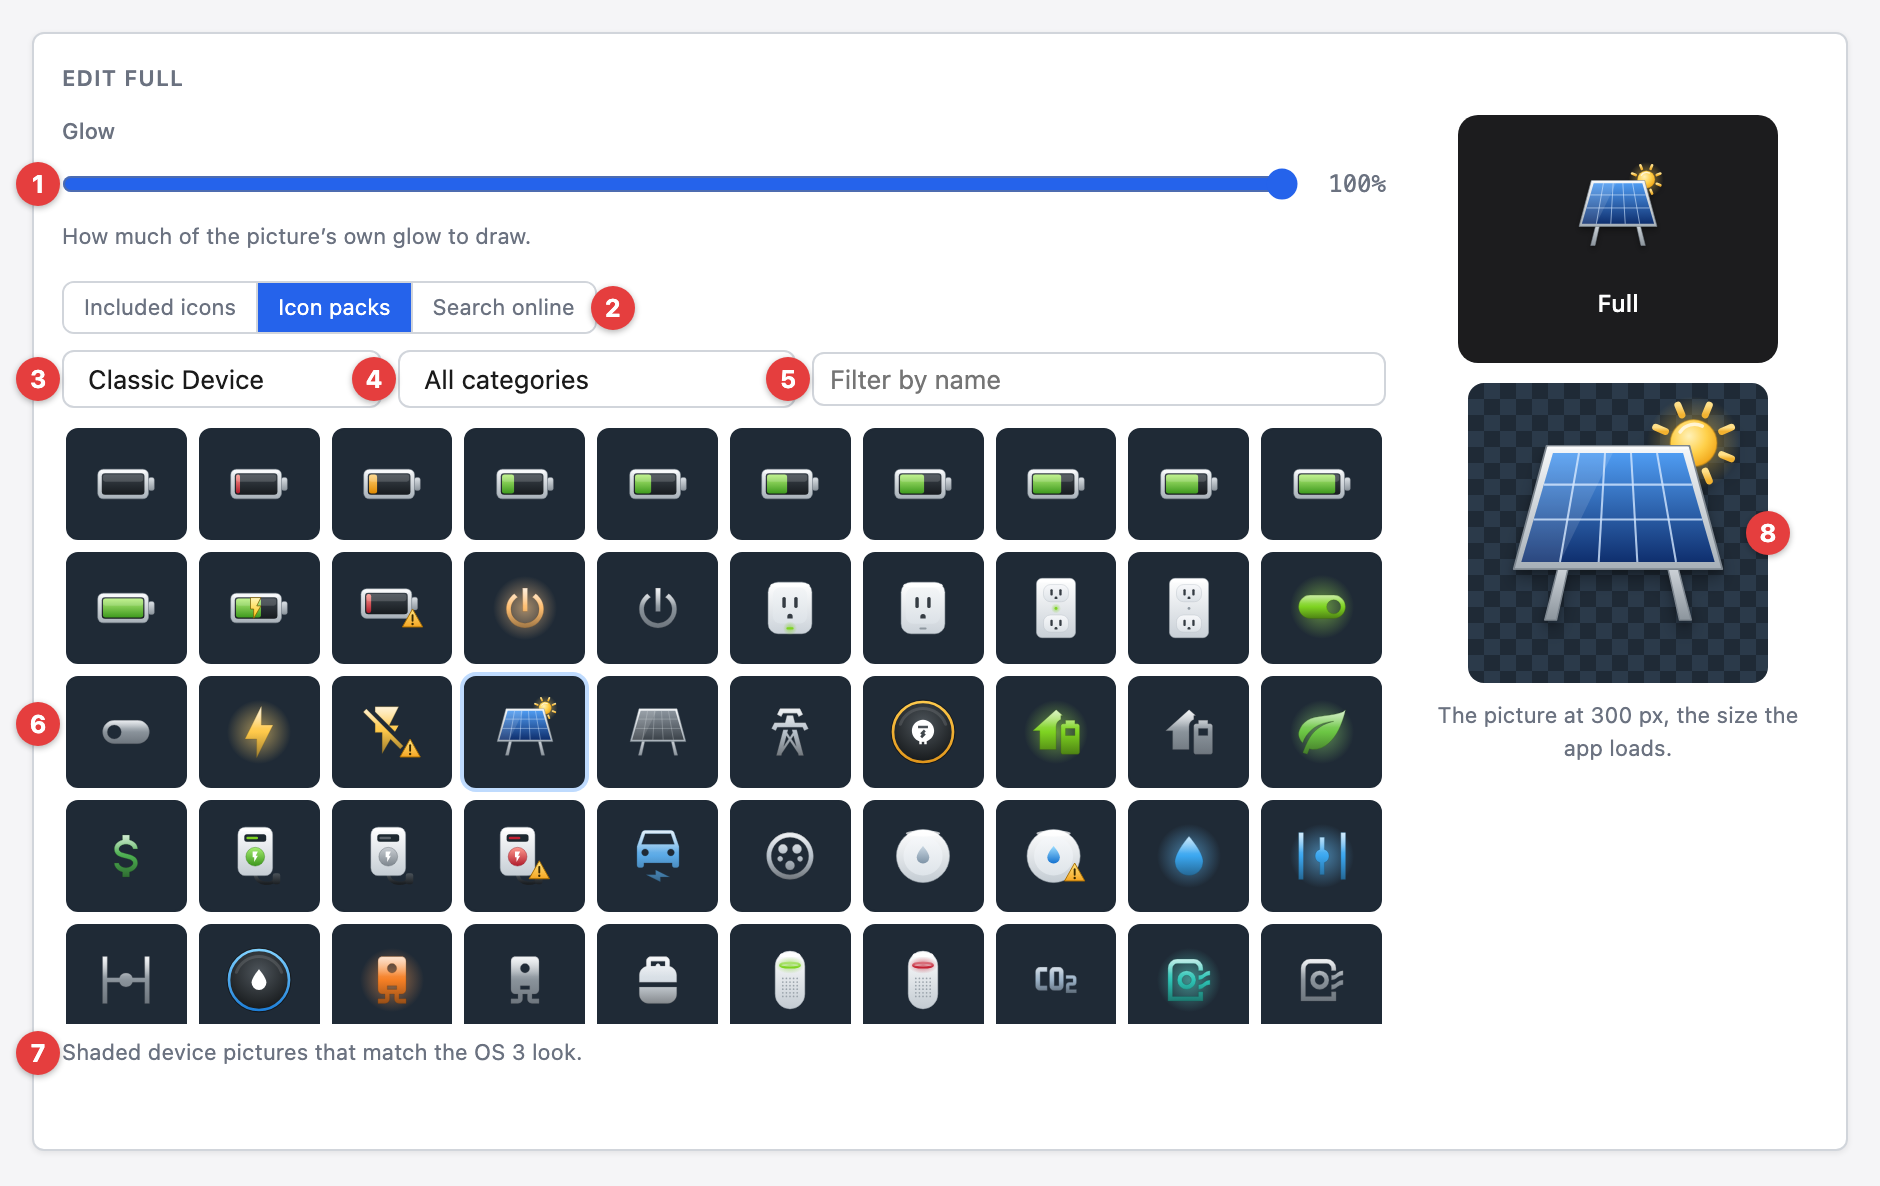
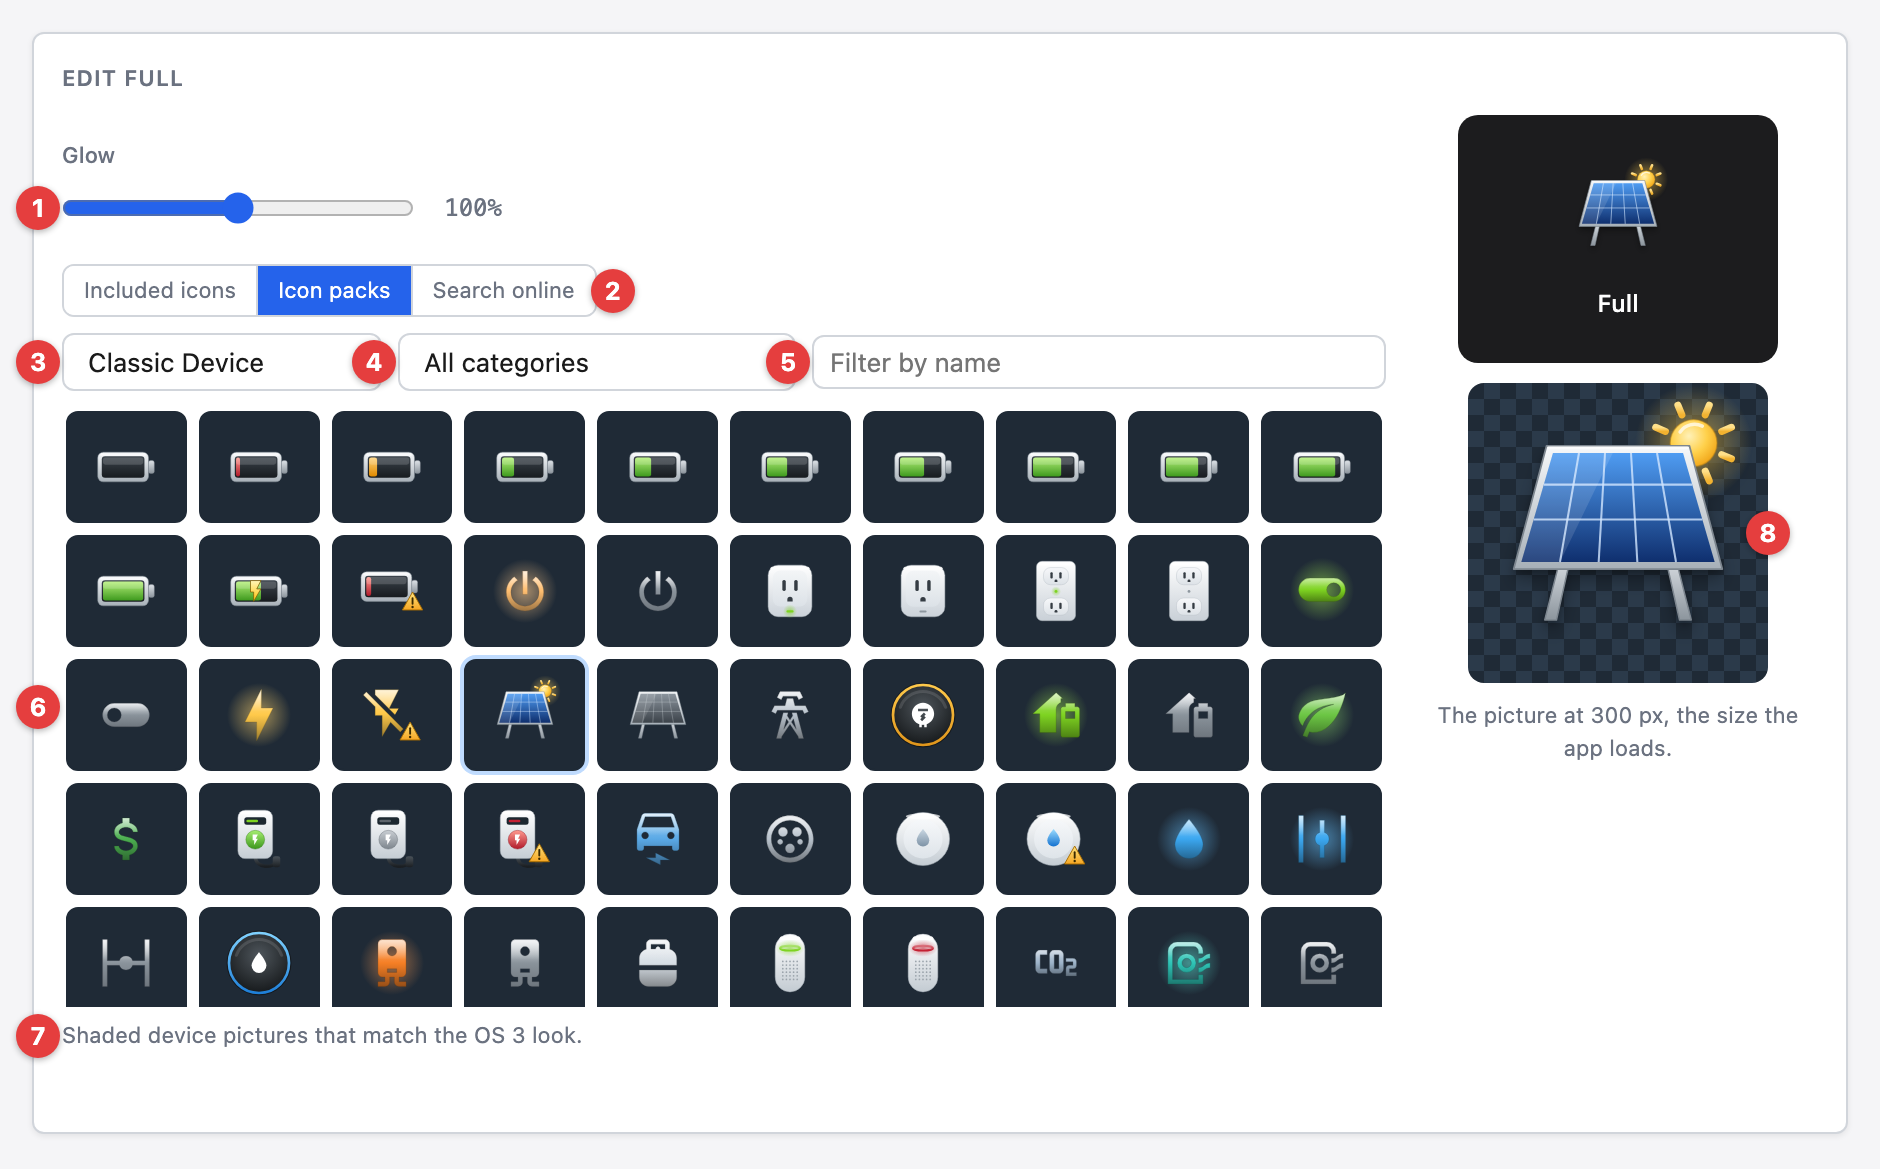
docs: regenerate README

diff --git a/README.md b/README.md
@@ -133,16 +133,16 @@ the button's looks.
 1. **Name** - the look's name in programming: up to 40 characters, without
    commas, and different from the button's other looks. Picking an icon fills it
    in when it is empty.
-1. **Tile shape** - `None`, `Circle`, `Rounded Square` or `Square`. With `None`
-   the icon is drawn on its own, larger.
-1. **Icon color** - the color the icon is drawn in.
-1. **Tile color** - the color of the tile behind the icon.
 1. **In cycle** - when off, presses, Next Look and Previous Look pass over the
    look. Show Look can still show it.
 1. **Grayscale** - draws the picture in grays, its tile too, which gives any
    picture a gray version for an off look beside the packs' own on and off
    pictures. A gray picture has no glow, and the look keeps its `Glow` setting
    for when `Grayscale` is turned off again.
+1. **Tile shape** - `None`, `Circle`, `Rounded Square` or `Square`. With `None`
+   the icon is drawn on its own, larger, and `Tile color` is hidden.
+1. **Icon color** - the color the icon is drawn in.
+1. **Tile color** - the color of the tile behind the icon.
 1. **Included icons / Icon packs / Search online** - picks from the icons
    included with the driver, which work with no internet, from the driver's
    three icon packs (see [Icon Packs](#icon-packs)), or from the free icon packs
@@ -168,9 +168,9 @@ temperature and humidity, devices, appliances, status, home modes, holidays and
 weather. A subject with states has a picture for each: on, off and alert where
 one applies. They work with no internet.
 
-1. **Glow** - how much of the picture's own glow to draw, from none to the full
-   glow the pack gives it. It shows for the Classic Device pictures that glow,
-   and is off while `Grayscale` is on.
+1. **Glow** - the picture's glow, from none through its own at `100%` to twice
+   as strong at `200%`. It shows for the Classic Device pictures that glow, and
+   is hidden while `Grayscale` is on.
 1. **Icon packs** - shows the packs instead of the included icons.
 1. **Classic Device / Classic Tile / Modern** - the pack to show.
    `Classic Device` is shaded device pictures and `Classic Tile` is a white
@@ -182,7 +182,7 @@ one applies. They work with no internet.
    when the name is empty.
 1. **Pack note** - what the chosen pack looks like.
 1. **Picture** - a pack picture keeps its own colors, so `Tile shape`,
-   `Icon color` and `Tile color` do not apply to it, and the picture shows on a
+   `Icon color` and `Tile color` are hidden for it, and the picture shows on a
    dark background. The Classic packs add the soft shadow the OS 3 look has.
 
 ### Icon Search
@@ -433,8 +433,8 @@ Template for a new release entry (copy below the heading, fill in, uncomment):
   Button tab's Icon packs view: Classic Device and Classic Tile, which match the
   OS 3 look, and Modern, which matches the X4 look, with on, off and alert
   pictures where a subject has states
-- Added Glow and Grayscale to each look: Glow sets how much of a Classic Device
-  picture's glow is drawn, and Grayscale draws any picture in grays with no
-  glow, its gray version beside the packs' own on and off pictures
+- Added Glow and Grayscale to each look: Glow sets a Classic Device picture's
+  glow from none to twice its own, and Grayscale draws any picture in grays with
+  no glow, its gray version beside the packs' own on and off pictures
 - Added the driver's properties to the Button tab, where they can be changed as
   in Composer's Properties tab, with Look Control beside the shown button
